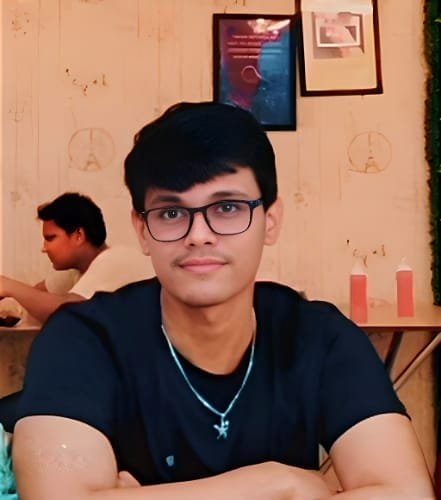
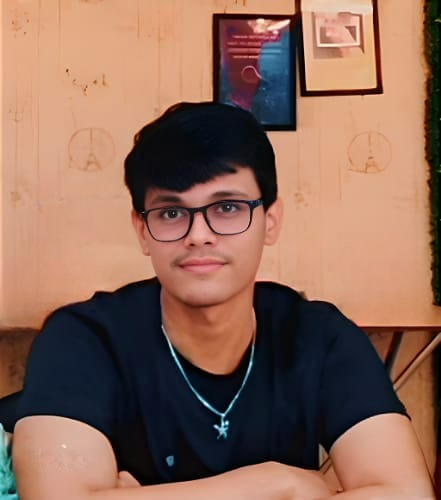
Initial commit or updated code1

diff --git a/portfolio-details-gfg.html b/portfolio-details-gfg.html
@@ -105,7 +105,7 @@
           <div class="swiper-wrapper align-items-center">
 
             <div class="swiper-slide">
-              <img src="assets/img/portfolio/gfg200streak.png" alt="">
+              <img src="assets/img/portfolio/gfg400streak.png.png" alt="">
             </div>
 
            
@@ -124,7 +124,7 @@
                     <h2>GeeksforGeeks Problem Solving Achievement</h2>
                   
                     <p>
-                      For the past 7 months, I have been dedicated to solving daily problems on GeeksforGeeks, with a focus on data structures and algorithms. This consistent practice has resulted in an impressive streak of over 200 days, significantly enhancing my problem-solving skills. Below is a detailed overview of this achievement and its significance.
+                      For the past 1 Year, I have been dedicated to solving daily problems on GeeksforGeeks, with a focus on data structures and algorithms. This consistent practice has resulted in an impressive streak of over 400+ days, significantly enhancing my problem-solving skills. Below is a detailed overview of this achievement and its significance.
                     </p>
                   
                     <h3>Daily GeeksforGeeks Practice</h3>
@@ -147,7 +147,7 @@
                   
                     <h3>Consistency and Dedication</h3>
                     <p>
-                      I have maintained a daily streak on GeeksforGeeks for over 200 days, solving problems consistently without interruption. This achievement demonstrates my dedication to continuous learning and improvement in the field of computer science.
+                      I have maintained a daily streak on GeeksforGeeks for over 400+ days, solving problems consistently without interruption. This achievement demonstrates my dedication to continuous learning and improvement in the field of computer science.
                     </p>
                   
                     <h3>Impact and Skills Acquired</h3>
@@ -168,7 +168,7 @@
                   
                     <h3>Conclusion</h3>
                     <p>
-                      My ongoing commitment to solving daily problems on GeeksforGeeks has been a transformative experience, equipping me with essential skills in data structures and algorithms. This 200+ days streak not only showcases my perseverance but also reflects my passion for continuous learning and problem-solving. These achievements are a vital part of my professional development, preparing me for complex challenges in the field of software development.
+                      My ongoing commitment to solving daily problems on GeeksforGeeks has been a transformative experience, equipping me with essential skills in data structures and algorithms. This 400+ days streak not only showcases my perseverance but also reflects my passion for continuous learning and problem-solving. These achievements are a vital part of my professional development, preparing me for complex challenges in the field of software development.
                     </p>
                   </div>
                   
@@ -185,7 +185,7 @@
               <h3>Achievement information</h3>
               <ul>
                 <li><strong>Category</strong>GeeksforGeeks Daily Streak Achievement</li>
-                <li><strong>duration</strong>7 months</li>
+                <li><strong>duration</strong>1 Year +</li>
                 <li><strong>Profile</strong><a href="https://www.geeksforgeeks.org/user/ganeshyarr7uso/">https://www.geeksforgeeks.org/user/ganeshyarr7uso/</a></li>
                 
               </ul>

diff --git a/portfolio-details-leet.html b/portfolio-details-leet.html
@@ -105,7 +105,7 @@
           <div class="swiper-wrapper align-items-center">
 
             <div class="swiper-slide">
-              <img src="assets/img/portfolio/leetcode200streak.png" alt="">
+              <img src="assets/img/portfolio/leetcode400streak.png.png" alt="">
             </div>
 
            
@@ -124,7 +124,7 @@
                     <h2>LeetCode Problem Solving Achievement</h2>
                   
                     <p>
-                      Over the past 7 months, I have been diligently solving daily problems on LeetCode, focusing on data structures and algorithms. This consistent effort has significantly honed my problem-solving skills and has resulted in a remarkable streak of 200+ days. Below is a detailed account of this achievement and its significance.
+                      Over the past 1 Year, I have been diligently solving daily problems on LeetCode, focusing on data structures and algorithms. This consistent effort has significantly honed my problem-solving skills and has resulted in a remarkable streak of 400+ days. Below is a detailed account of this achievement and its significance.
                     </p>
                   
                     <h3>Daily LeetCode Practice</h3>
@@ -147,7 +147,7 @@
                   
                     <h3>Consistency and Dedication</h3>
                     <p>
-                      For the past 7 months, I have maintained a daily streak on LeetCode, solving problems consistently without missing a single day. This achievement underscores my dedication to continuous learning and improvement in the field of computer science.
+                      For the past 1 year, I have maintained a daily streak on LeetCode, solving problems consistently without missing a single day. This achievement underscores my dedication to continuous learning and improvement in the field of computer science.
                     </p>
                   
                     <h3>Impact and Skills Acquired</h3>
@@ -168,7 +168,7 @@
                   
                     <h3>Conclusion</h3>
                     <p>
-                      My ongoing commitment to solving daily LeetCode problems has been a transformative experience, equipping me with essential skills in data structures and algorithms. This 200+ days streak is not just a testament to my perseverance but also reflects my passion for continuous learning and problem-solving. These achievements are a crucial part of my professional development, preparing me for complex challenges in the field of software development.
+                      My ongoing commitment to solving daily LeetCode problems has been a transformative experience, equipping me with essential skills in data structures and algorithms. This 400+ days streak is not just a testament to my perseverance but also reflects my passion for continuous learning and problem-solving. These achievements are a crucial part of my professional development, preparing me for complex challenges in the field of software development.
                     </p>
                   </div>
                   
@@ -184,7 +184,7 @@
               <h3>Achievement information</h3>
               <ul>
                 <li><strong>Category</strong>LeetCode Daily Streak Achievement</li>
-                <li><strong>duration</strong>7 months</li>
+                <li><strong>duration</strong>1 Year +</li>
                 <li><strong>Profile</strong><a href="https://leetcode.com/u/Ganeshyarrampati7788/">https://leetcode.com/u/Ganeshyarrampati7788/</a></li>
                 
               </ul>

diff --git a/index.html b/index.html
@@ -586,7 +586,7 @@
               </div>
               <div class="portfolio-info">
                 <h4> LeetCode Daily Streak Achievement</h4>
-                <p>Consistently solving LeetCode problems daily for 200 days, maintaining a 200-day streak.</p>
+                <p>Consistently solving LeetCode problems daily for 400 days, maintaining a 400-day streak.</p>
                 <a href="assets/img/portfolio/leetcode.jpeg" title="Branding 2" data-gallery="portfolio-gallery-branding" class="glightbox preview-link"><i class="bi bi-zoom-in"></i></a>
                 <a href="portfolio-details-leet.html" title="More Details" class="details-link"><i class="bi bi-link-45deg"></i></a>
               </div>
@@ -597,7 +597,7 @@
               <img src="assets/img/portfolio/gfg.png" class="img-fluid" alt=""></div>
               <div class="portfolio-info">
                 <h4> GeeksforGeeks Daily Streak Achievement</h4>
-                <p>Consistently solving GeeksforGeeks problems daily for 200 days, maintaining a 200-day streak.</p>
+                <p>Consistently solving GeeksforGeeks problems daily for 400 days, maintaining a 400-day streak.</p>
                 <a href="assets/img/portfolio/gfg.png" title="Branding 2" data-gallery="portfolio-gallery-branding" class="glightbox preview-link"><i class="bi bi-zoom-in"></i></a>
                 <a href="portfolio-details-gfg.html" title="More Details" class="details-link"><i class="bi bi-link-45deg"></i></a>
               </div>
